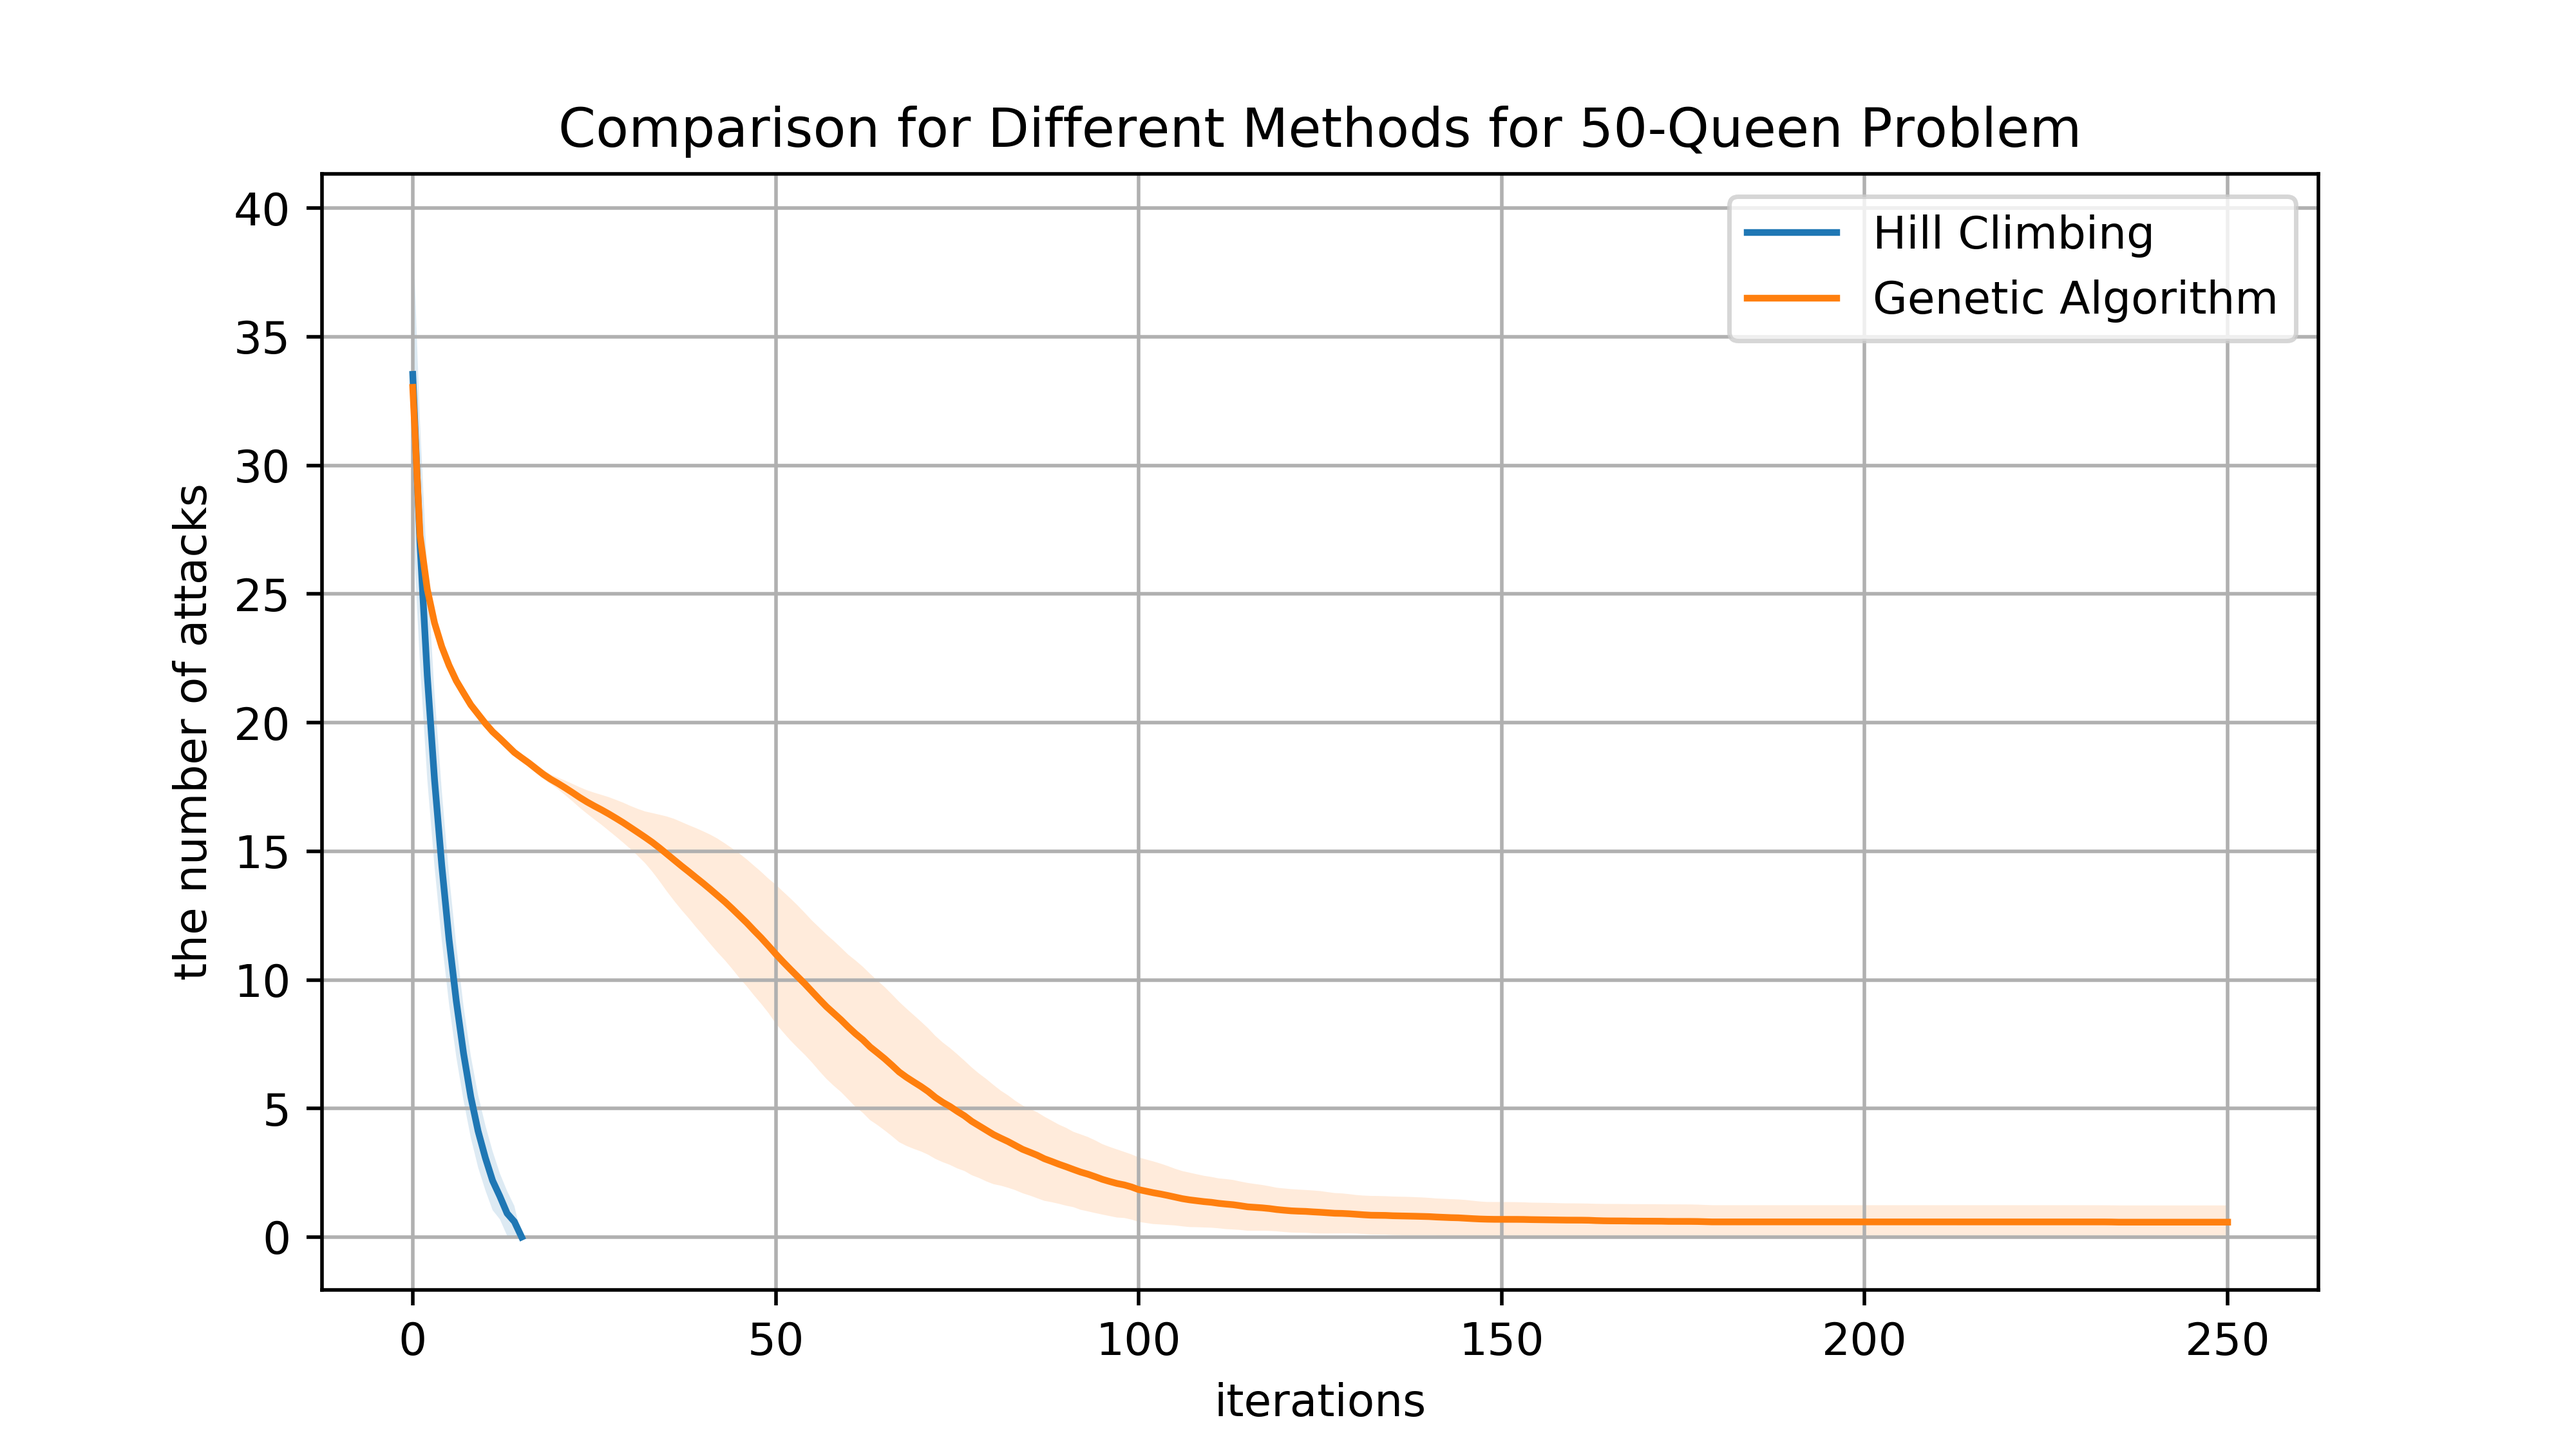
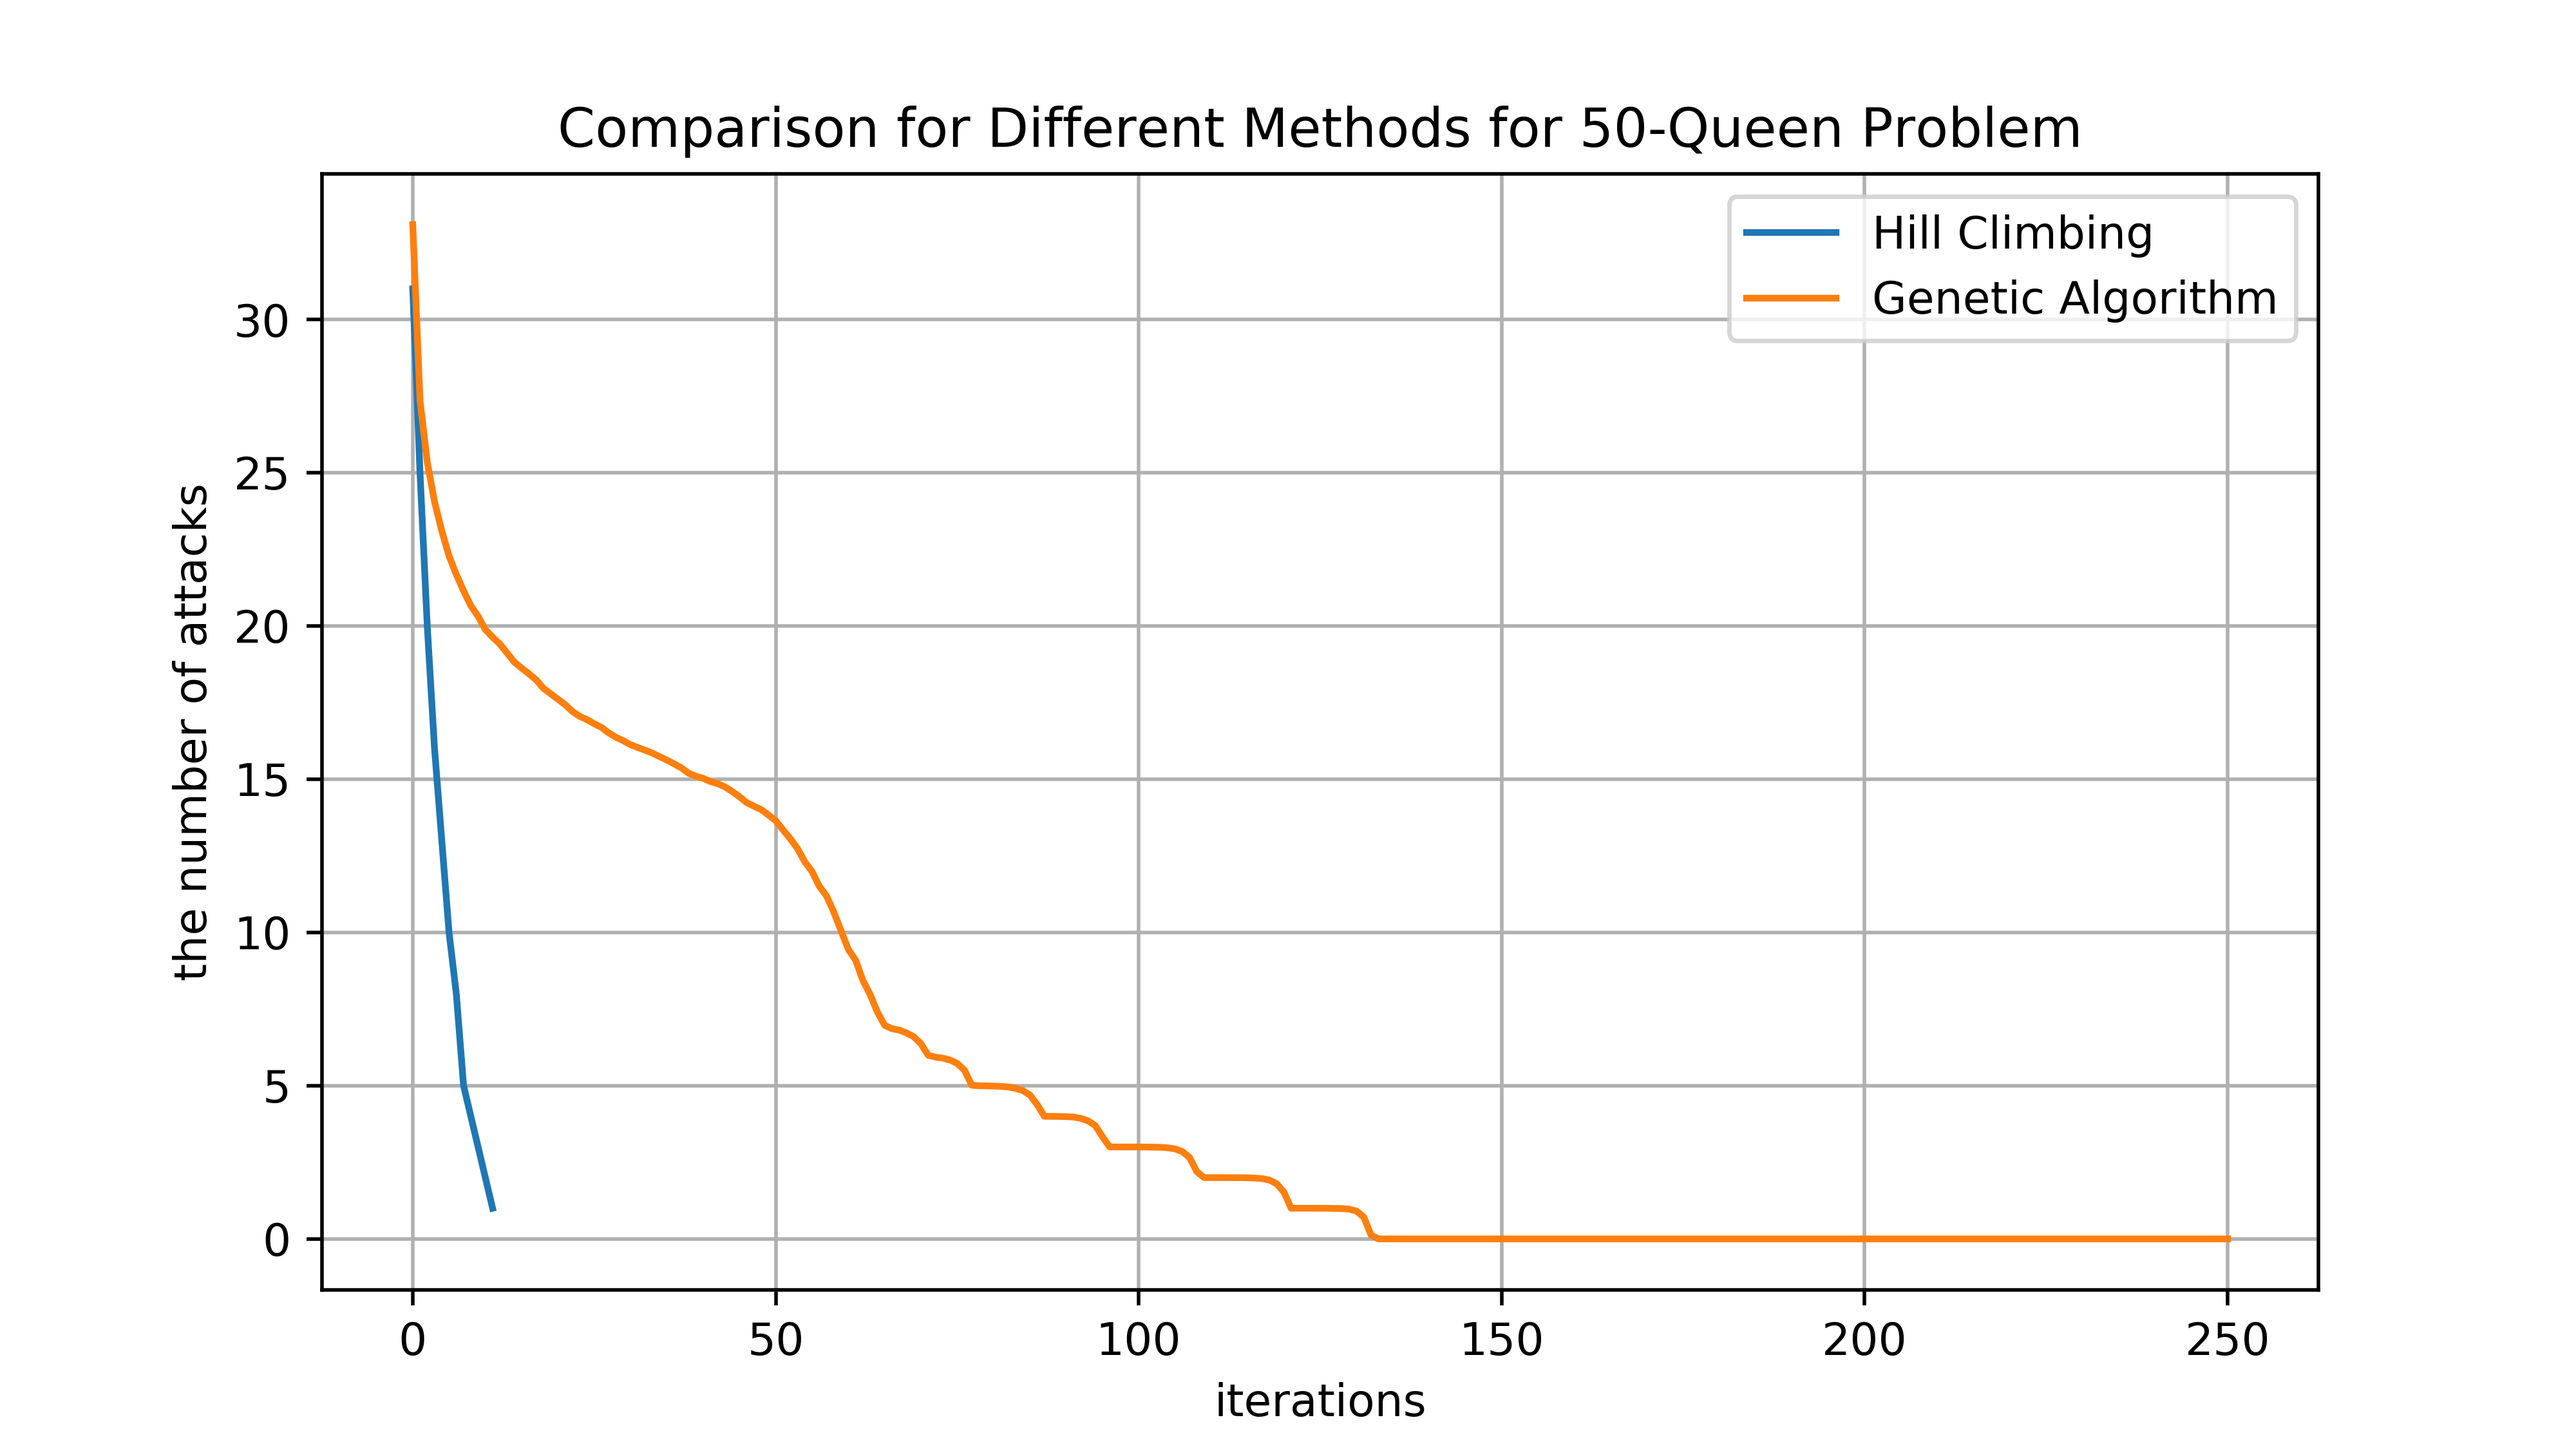
all

diff --git a/ga.py b/ga.py
@@ -6,7 +6,7 @@ import problem_new as problem
 import matplotlib.pyplot as plt
 
 class GA():
-    def __init__(self, problem, mutation_rate=0.05, population_size=50, max_iter=100, sel_mode='FPS', mut_mode='SWAP', sur_mode='FB'):
+    def __init__(self, problem, mutation_rate=0.05, population_size=50, max_iter=100, sel_mode='FPS', mut_mode='SWAP'):
         '''
         Initialize the object.
 
@@ -34,12 +34,14 @@ class GA():
         self.co_mode = 'OX'
         self.mut_mode = mut_mode
         self.sel_mode = sel_mode
-        self.sur_mode = sur_mode
         return
 
     def selection(self, i):
         '''
         Fitness selection
+
+        Input:
+        - i: if i = 0, we calculate all the cost and bootkeep it. 
         '''
 
         # Fitness Selection
@@ -60,8 +62,6 @@ class GA():
 
     def reproduce(self, x, y):
         # order crossover (OX)
-        # print('x =', x)
-        # print('y =', y)
         choice = np.random.choice(len(x), 2, replace=False)
         s, e = min(choice), max(choice)
         c1, c2 = np.zeros((2, len(x)), dtype=int)
@@ -70,9 +70,6 @@ class GA():
             return [tuple(c1), tuple(c2)]
 
         fix = list(map(lambda i: i % len(x), range(e+1, e+len(x)-(e-s+1)+1)))
-        # print(s, e)
-        # print('fix =', fix)
-        # print(fix)
         acc = fix[0]
         for i in fix:
             while y[acc] in c1[s:e+1]:
@@ -114,14 +111,11 @@ class GA():
         return tuple(mutated)
 
     def survive(self):
-        if self.sur_mode == 'FB':
-            new_idx = np.argsort(list(map(self.fitness_fn, self.population)))[: self.population_size]
-            new_population = []
-            for i in new_idx:
-                new_population.append(self.population[i])
-            self.population = new_population
-        elif self.sur_mode == 'AB':
-            pass
+        new_idx = np.argsort(list(map(self.fitness_fn, self.population)))[: self.population_size]
+        new_population = []
+        for i in new_idx:
+            new_population.append(self.population[i])
+        self.population = new_population
         return
 
     def loop(self):
@@ -149,9 +143,7 @@ class GA():
     def result(self, visualization=False):
         fitness = [self.fitness_fn(i) for i in self.population]
         best_idx = np.argmin(fitness)
-        # print(best_idx)
         best_individual = self.population[best_idx]
-        # print(fitness[best_idx])
         if visualization:
             plt.plot(range(len(self.fitness_history)), self.fitness_history, '.-')
             plt.xlabel('the number of iterations')

diff --git a/main.py b/main.py
@@ -3,7 +3,7 @@ import HC
 import problem_new as problem
 import matplotlib.pyplot as plt
 import numpy as np
-num_trails = 100
+num_trails = 1
 
 def statics(cost_his):
     max_len = max(list(map(len, cost_his)))
